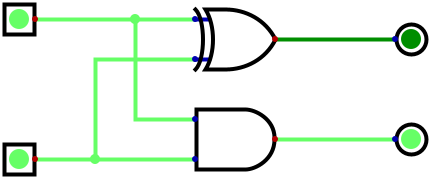
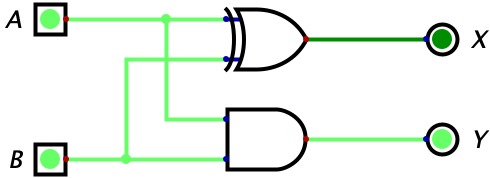
changes to chapter 7

diff --git a/_parts/part8.md b/_parts/part8.md
@@ -15,15 +15,15 @@ date: 2023-11-10
 # Chapter 08 - Addition with Logic Gates
 **Topics Covered:** Half Adder, Full Adder
 
-Now that we have learned about logic gates, I think it's time we learned why they are so important (hopefully, the not so boring part). The average computer today can process around billions of operations per second which is mind-blowing. However, those processes can't happen without the use of logic gates. Logic gates allow us to build more complex circuits inside of computers which allow these kinds of processes to occur. Let me back up for a second here. I think the best way to describe logic gates is comparing them to legos. In chapter 06, we got introduced to the brick blocks, the tile blocks, the plate blocks, etc. Now, it's time for us to take those different pieces and build our first house.
+Now that we have learned about logic gates, I think it's time we learned why they are so important (hopefully, the not so boring part). The average computer today can process around billions of operations per second which is mind-blowing. However, those processes can't happen without the use of logic gates. Logic gates allow us to build more complex circuits inside of computers which allow these kinds of processes to occur. Let me back up for a second here. I think the best way to describe logic gates is comparing them to legos. In chapter 6, we got introduced to the brick blocks, the tile blocks, the plate blocks, etc. Now, it's time for us to take those different lego pieces and build our first house.
 
-As mentioned in the previous paragraph, we can use these logic gates to build more complicated circuits. You might be thinking what does he mean by more complicated circuits (I promise we will start out easy). The simplest circuit that we can have is an adder. Let's take a very simple example below:
+As mentioned in the previous paragraph, we can use these logic gates to build more complicated circuits. You might be thinking what does he mean by more complicated circuits (I promise we will start out easy). The simplest circuit that we can have is an adder. Let's take an example below:
 
 ![Example of 0+0](../assets/part8/0+0%20OR.png)
 
-Above we have an example of a circuit representing the equation 0+0=0 (in the form of A+B=C). In this example, what we are trying to demonstrate is that the OR gate can be used to add two numbers together. 
+Above we have a circuit representing the equation $$A+B=X$$ (in other words, $$0{2}+0{2}=0{2}$$). In this example, what we are trying to demonstrate is that the OR gate can be used to add two numbers together. 
 
-*Aside: In the example above, the A, B, C which are all 0s are not the number 0, but the bit 0, which is equivalent to the number 0 ($$2^0*0=0$$). So, technically, we are adding the bit 0 (the number 0) to another bit 0 (the number 0) giving us the bit 0 (the number 0).*
+*Aside: In the example above, the A, B, C which are all 0s are not the number 0, but the bit 0, which is equivalent to the number 0 ($$2^0*0=0$$). So, technically, we are adding the bit 0 (the number 0) to another bit 0 (the number 0) giving us the bit 0 (the number 0). Review chapter 3 if this does not make sense!*
 
 Let's look at a slightly different example:
 
@@ -33,27 +33,50 @@ Here, we are adding the bit 0 (number 0) with the bit 1 (number 1) which gives u
 
 ![Example of 1+1](../assets/part8/1+1%20OR.png)
 
-Here, we are adding the bit 1 (number 1) with the bit 1 (number 1) which gives us the bit 1 (number 1). If you realized there's a mistake here, you're right. The number 1 plus the number 1 should be returning 2. You might be thinking that there is no possible we can represent the number two (written as **10** in binary) with the current logic gate we have. This is where things get exciting.
+Here, we are adding the bit 1 (number 1) with the bit 1 (number 1) which gives us the bit 1 (number 1). If you realized there's a mistake here, you're right. The number 1 plus the number 1 should be returning the number 2. You might be thinking that there is no possible we can represent the number two (written as **10** in binary) with the current logic gate (OR gate) we are using. This is where things get exciting.
 
 Remember when I was talking about legos earlier, this is where we use them. Just like how we can connect different legos with each other to build crazy things, we can use logic gates to build crazy circuits. Here is where we introduce the half adder:
 
 ![Example of a Half Adder](../assets/part8/Half%20Adder.png)
 
-The issue with using just an OR gate to represent the addition of two bits is that sometimes the bits can add up to the number 2 which we saw in the example in the paragraph above (meaning we need to somehow represent two bits in the output of a circuit). This is where a half adder is useful because we can now represent the sum and carryout (which was talked about in Chapter 3). In the circuit above, the Y acts as the least significant bit (the sum bit) and the X acts as the most significant bit (the carry out bit). Now, your question might be how did we know to use the XOR gate to calculate Y and the AND gate to calculate X? Take a look at this truth table below:
+The issue with using just an OR gate to represent the addition of two bits is that sometimes the bits can add up to the number 2 which we saw in the example in the paragraph above (meaning we need to somehow represent two bits in the output of a circuit since the number 2 is represented by two binary digits). This is where a half adder is useful because we can now represent the sum and carry out digits (which was talked about in Chapter 3). In the circuit above, the X acts as the least significant bit (the sum bit) and the Y acts as the most significant bit (the carry out bit). Now, your question might be how did we know to use the XOR gate to calculate X and the AND gate to calculate Y? Take a look at this truth table below:
 
-| A | B | Y (Sum) | X (Carry Out)
+| A | B | X (Sum) | Y (Carry Out)
 |:---:|:---:|:---:|:---:|
 | 0 | 0 |  0 | 0
 | 0 | 1 |  1 | 0
 | 1 | 0 |  1 | 0
 | 1 | 1 |  0 | 1
 
-Before we step any further, we should note that these calculations are the same as the ones in Chapter 3. First, looking at the Sum column (Y output), we can see that it looks pretty familar to one of the truth tables in Chapter 6. If you were thinking an XOR gate, then you're right! And, looking at the Carry Out column (X output), we can see that the output looks similar to an AND gate. If we combine both of these bits together, we can have an output now that represents the equation $$1+1=2$$ with the Y bit being the least significant bit and the X bit being the most significant bit (**10** written in binary). Here is an example of the circuit below:
+Before we go any further, we should note that these calculations are the same as the ones in Chapter 3. First, looking at the Sum column (X output), we can see that it looks pretty familar to one of the truth tables in Chapter 6. If you were thinking an XOR gate, then you're right! And, looking at the Carry Out column (Y output), we can see that the output looks similar to an AND gate. Now we can see why the half adder uses an XOR gate and AND gate instead of using a normal OR gate.
+
+If we combine both of these bits together (in the form of YX with the X bit being the least significant bit and the Y bit being the most significant bit), we can have an output now that represents the equation $$1{2}+1{2}=2{10}$$ because the number 2 can be represented as **10** in binary. Here is an example of the circuit below:
 
 ![Example of a Half Adder 1+1](../assets/part8/Half%20Adder%201+1.png)
 
-Here is another example of using a half adder for the equation $$1+0=1$$:
+Here is another example of using a half adder for the equation $$1{2}+0{2}=1{10}$$:
 
 ![Example of a Half Adder 1+0](../assets/part8/Half%20Adder%201+0.png)
 
-In this example, we can see that the output is **01** (or the number 1). 
+In this example, we can see that the output is **01** (or the number 1). Again, the X is used as the least significant bit and the Y is used as the most significant bit.
+
+Remember how we were talking about lego bricks earlier? Well, you might hate me, but we are going to add another brick on top of our current circuit. Let's say we want to add another input to our circuit and call it the carry in bit (this will make a lot more sense, I promise). So now we want to add the A, B, and C bits together to output a sum bit (X) and a carry out bit (Y). Let's take a look at the truth table and build the full adder circuit:
+
+| A | B | C | X (Sum) | Y (Carry Out)
+|:---:|:---:|:---:|:---:|:---:|
+| 0 | 0 | 0 | 0 | 0
+| 0 | 0 | 1 | 1 | 0
+| 0 | 1 | 0 | 1 | 0
+| 0 | 1 | 1 | 0 | 1
+| 1 | 0 | 0 | 1 | 0
+| 1 | 0 | 1 | 0 | 1
+| 1 | 1 | 0 | 0 | 1
+| 1 | 1 | 1 | 1 | 1
+
+We can use the explanation from Chapter 7 to construct an equation for the truth tabel above. Let's create an equation for the Sum bit:
+
+Step 1: $\bar A \bar B C+\bar A B \bar C+A \bar B \bar C + A B C$
+
+Step 2: $\bar A (\bar B C + B \bar C) + A (\bar B \bar C + B C)$
+
+Step 3: $\bar A (B \oplus C) + A (B \odot C)$

diff --git a/index.md b/index.md
@@ -18,10 +18,11 @@ Whether you are a computer science major or a curious learner without engineerin
 * Chapter 03 - [The Language of Computers: Meet Binary](/cpu_tutorial/parts/part3.html)
 * Chapter 04 - [Fixed-Width Numbers](/cpu_tutorial/parts/part4.html)
 * Chapter 05 - [What about Negative Numbers?](/cpu_tutorial/parts/part5.html)
+* Chapter 06 - [Logic Gates](/cpu_tutorial/parts/part6.html)
+* Chapter 07 - [Truth Tables and Equations](/cpu_tutorial/parts/part7.html)
+* Chapter 08 - [Addition with Logic Gates](/cpu_tutorial/parts/part8.html)
 
 # Future Chapters
-* Chapter XX - Logic Gates
-* Chapter XX - Addition with Logic Gates
 * Chatper XX - Ripple Carry Adders 
 * Chatper XX - Arithmetic Logic Unit (ALU)
 * Chapter XX - Sequential Logic
